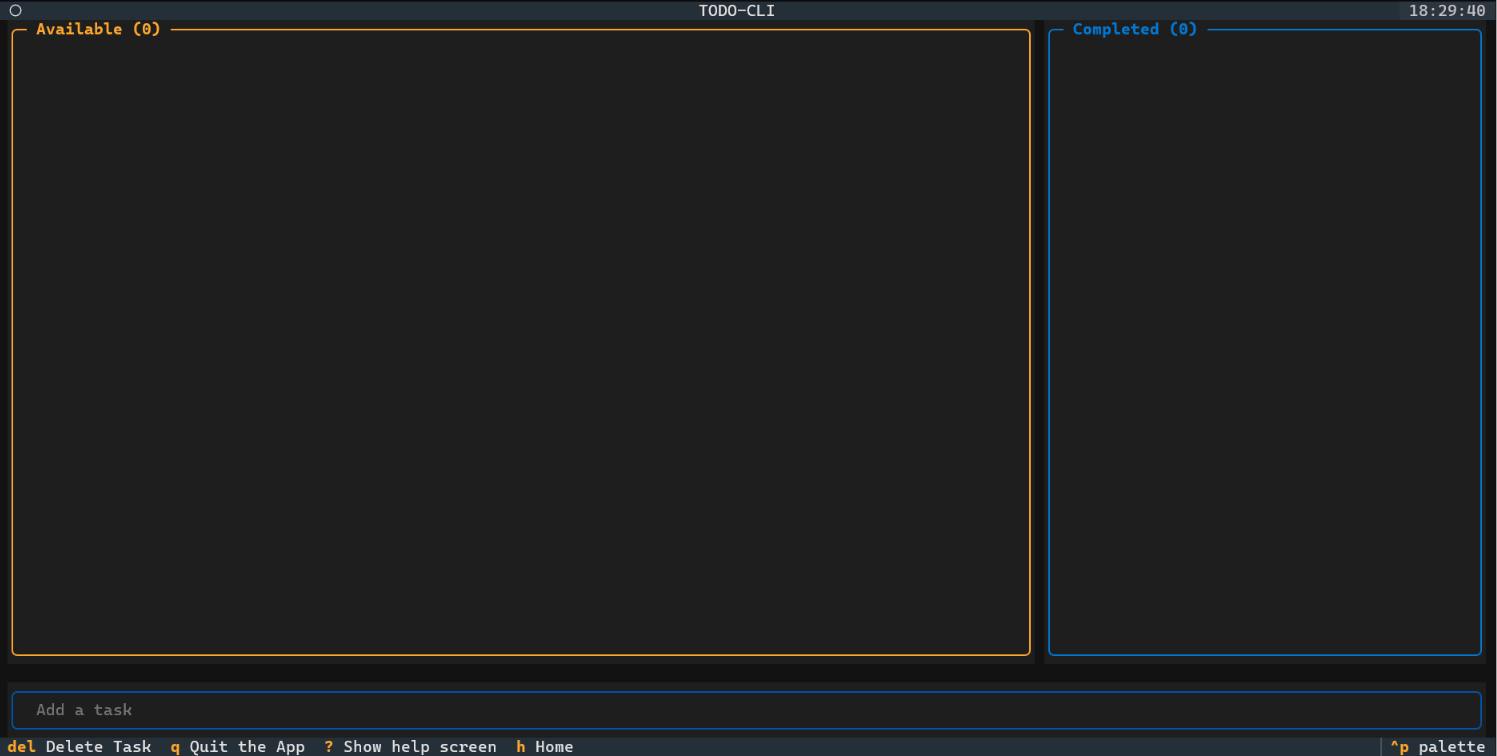
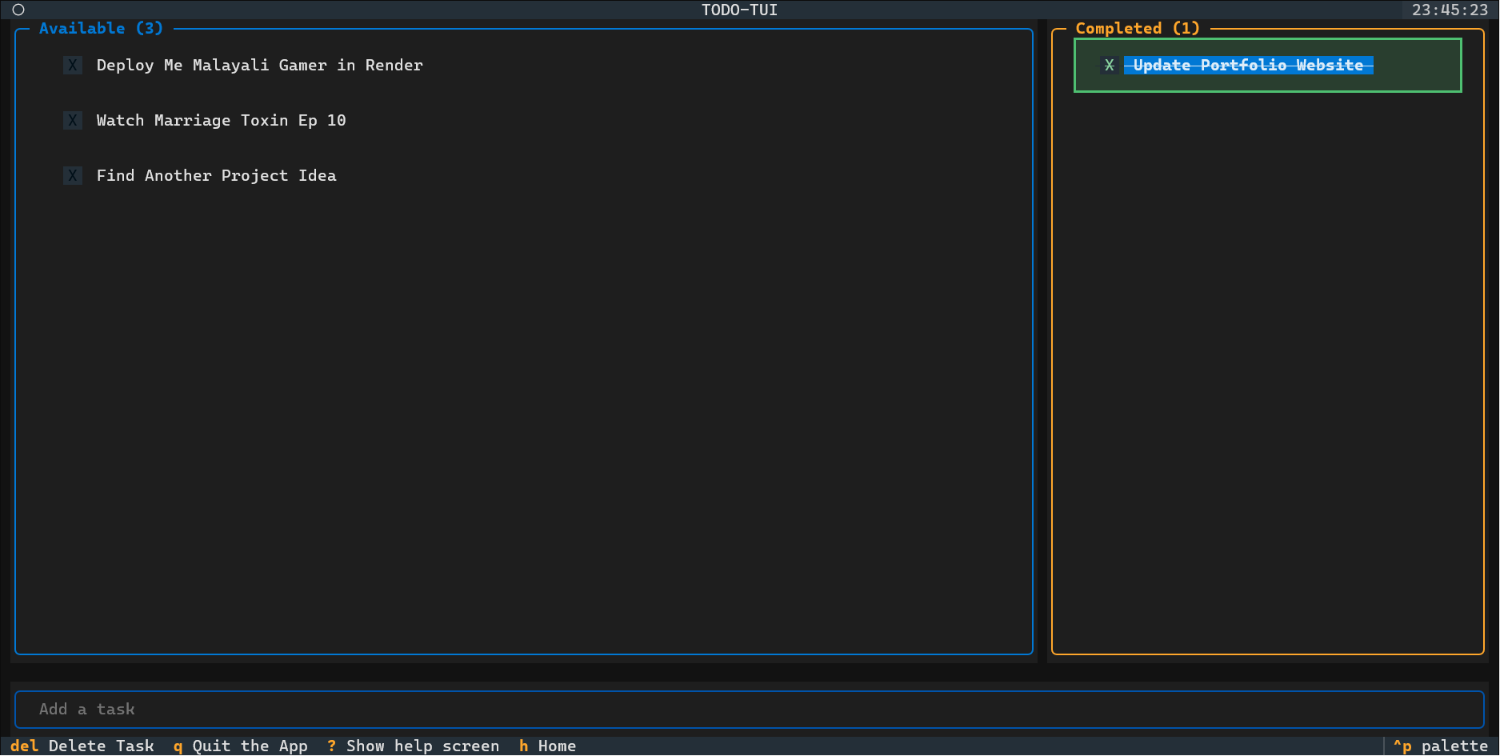
Changed cli to tui

diff --git a/script.js b/script.js
@@ -92,6 +92,39 @@ document.addEventListener('DOMContentLoaded', () => {
     document.head.appendChild(style);
 });
 
+// ===================== GitHub Release Version Auto-Fetcher =====================
+async function fetchLatestVersion() {
+    const versionElements = document.querySelectorAll('[data-repo]');
+    if (versionElements.length === 0) return;
+
+    // Use the first element's repo attribute
+    const repo = versionElements[0].getAttribute('data-repo');
+
+    try {
+        const response = await fetch(`https://api.github.com/repos/${repo}/releases/latest`);
+        if (!response.ok) throw new Error(`GitHub API error: ${response.status}`);
+        const data = await response.json();
+        const tagName = data.tag_name; // e.g. "v0.1.1"
+
+        // Update all version-tag elements with the matching repo
+        document.querySelectorAll(`.version-tag[data-repo="${repo}"]`).forEach(el => {
+            el.textContent = tagName;
+        });
+
+        // Also update the release banner version
+        const releaseVersionEl = document.querySelector('.release-version');
+        if (releaseVersionEl) {
+            releaseVersionEl.textContent = tagName;
+        }
+    } catch (err) {
+        console.warn('Failed to fetch latest release version:', err);
+        // Keep the initial hardcoded version as fallback
+    }
+}
+
+// Fetch latest version on page load
+document.addEventListener('DOMContentLoaded', fetchLatestVersion);
+
 // ===================== Parallax effect on hero background =====================
 const heroBg = document.querySelector('.hero-bg');
 

diff --git a/index.html b/index.html
@@ -74,13 +74,13 @@
         self.role = <span class="string">"Developer & Creator"</span>
         self.stack = [<span class="string">"Django"</span>, <span class="string">"Python"</span>, <span class="string">"ML"</span>]
         self.vibe = <span class="string">"Full-Stack Energy ⚡"</span>
-    
+
     <span class="keyword">def</span> <span class="func">build</span>(self, idea):
         <span class="keyword">return</span> <span class="string">f"Built {idea} with ❤️"</span>
 
 me = Agnivesh()
-print(me.build(<span class="string">"todo-cli"</span>))
-<span class="comment"># Output: Built todo-cli with ❤️</span></code></pre>
+print(me.build(<span class="string">"todo-tui"</span>))
+<span class="comment"># Output: Built todo-tui with ❤️</span></code></pre>
                     </div>
                 </div>
             </div>
@@ -92,17 +92,17 @@ print(me.build(<span class="string">"todo-cli"</span>))
     </section>
 
     <!-- Latest Release Banner -->
-    <section class="release-banner">
+    <section class="release-banner" id="release-banner">
         <div class="release-content">
             <div class="release-icon">
                 <i class="fas fa-rocket"></i>
             </div>
             <div class="release-text">
                 <span class="release-badge">NEW</span>
-                <h3>todo-cli v1.0 — Just Released!</h3>
+                <h3>todo-tui <span class="release-version">v0.1.1</span> — Just Released!</h3>
                 <p>A feature-rich, keyboard-driven TUI todo app built with Python & Textual</p>
             </div>
-            <a href="https://github.com/agniveshtm/todo-cli" target="_blank" class="btn btn-accent">
+            <a href="https://github.com/agniveshtm/todo-tui" target="_blank" class="btn btn-accent">
                 <i class="fab fa-github"></i> View on GitHub
             </a>
         </div>
@@ -152,12 +152,12 @@ print(me.build(<span class="string">"todo-cli"</span>))
             <h2 class="section-title">Featured <span class="highlight">Projects</span></h2>
             <p class="section-subtitle">Things I've built, broken, and rebuilt again</p>
 
-            <!-- Featured: todo-cli -->
-            <div class="project-featured">
+            <!-- Featured: todo-tui -->
+            <div class="project-featured" id="featured-todo-tui">
                 <div class="project-featured-badge">Latest Release</div>
                 <div class="project-featured-content">
                     <div class="project-featured-info">
-                        <h3>todo-cli <span class="version-tag">v1.0</span></h3>
+                        <h3>todo-tui <span class="version-tag" data-repo="agniveshtm/todo-tui">v0.1.1</span></h3>
                         <p class="project-type"><i class="fas fa-terminal"></i> Terminal User Interface · Python + Textual</p>
                         <p>A feature-rich, keyboard-driven Terminal User Interface (TUI) todo application. Manage tasks directly from the terminal with a clean, dark-themed interface, full keyboard navigation, and instant feedback. Built with Python and the Textual framework.</p>
                         <div class="project-tags">
@@ -168,7 +168,7 @@ print(me.build(<span class="string">"todo-cli"</span>))
                             <span>pytest</span>
                         </div>
                         <div class="project-links">
-                            <a href="https://github.com/agniveshtm/todo-cli" target="_blank" class="btn btn-sm">
+                            <a href="https://github.com/agniveshtm/todo-tui" target="_blank" class="btn btn-sm">
                                 <i class="fab fa-github"></i> Source Code
                             </a>
                         </div>
@@ -179,10 +179,10 @@ print(me.build(<span class="string">"todo-cli"</span>))
                                 <span class="dot red"></span>
                                 <span class="dot yellow"></span>
                                 <span class="dot green"></span>
-                                <span class="terminal-title">todo-cli</span>
+                                <span class="terminal-title">todo-tui</span>
                             </div>
                             <div class="terminal-body">
-                                <img src="Todo-TaskArea (Screenshot).png" alt="todo-cli TUI screenshot" class="tui-screenshot">
+                                <img src="Todo-TaskArea (Screenshot).png" alt="todo-tui TUI screenshot" class="tui-screenshot">
                             </div>
                         </div>
                     </div>